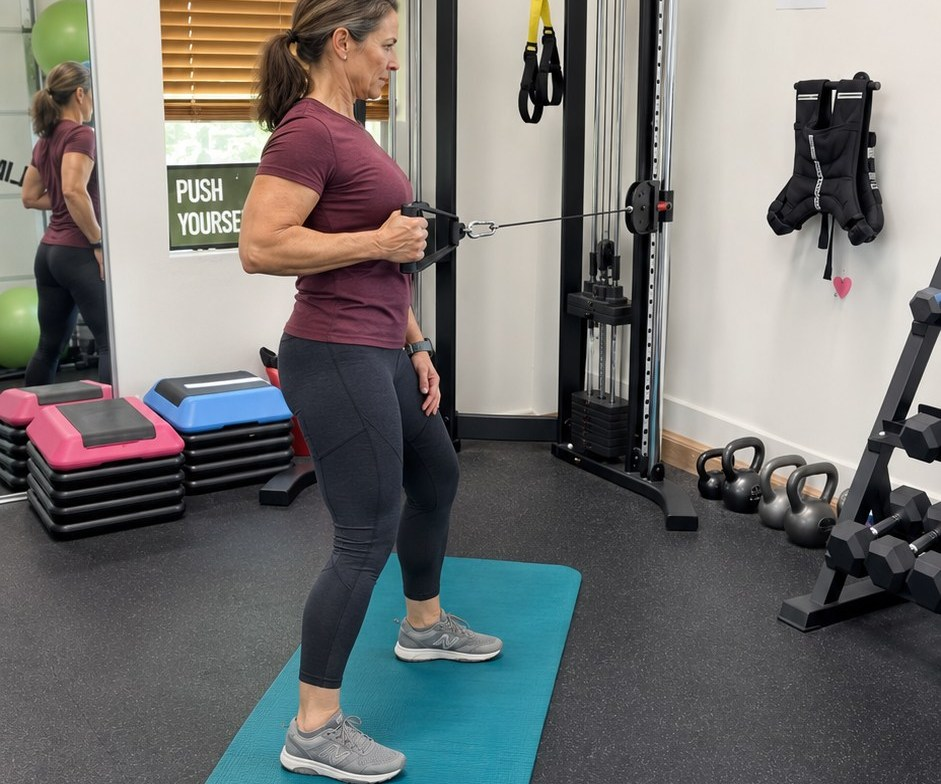
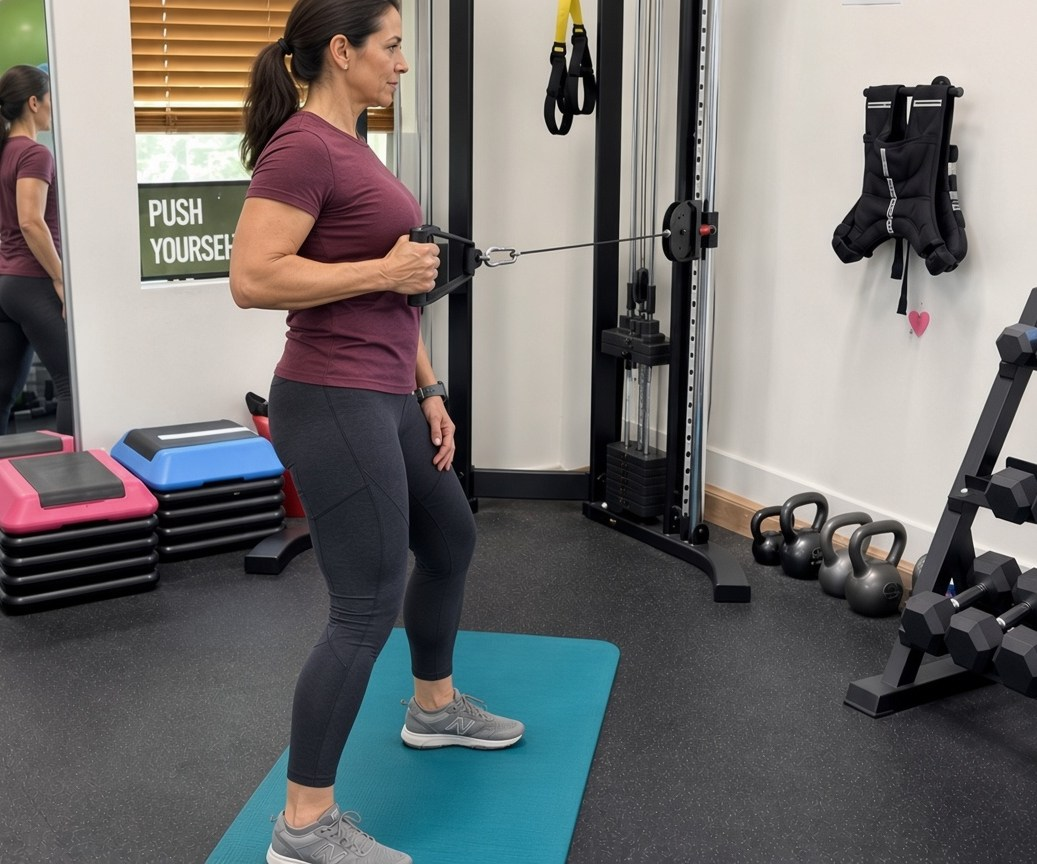
Give the Train with Me photos distinct looks and save the nutrition page for later.

diff --git a/wix-saved/nutrition-and-hormonal-health.html b/wix-saved/nutrition-and-hormonal-health.html
@@ -1,0 +1,136 @@
+<!DOCTYPE html>
+<html lang="en">
+<head>
+  <meta charset="UTF-8">
+  <meta name="viewport" content="width=device-width, initial-scale=1">
+  <title>Saved Wix page: Nutrition and hormonal health</title>
+  <style>
+    body { margin: 0; background: #f7f4ef; color: #1f1f1f; font: 17px/1.55 Georgia, serif; }
+    .banner, main { max-width: 760px; margin: 0 auto; padding: 24px 20px; }
+    .banner { background: #fff7e8; border-bottom: 1px solid #e4d7c3; font-family: "Segoe UI", sans-serif; font-size: 15px; }
+    h1, h2, h3 { font-family: "Segoe UI", sans-serif; line-height: 1.2; }
+    h1 { font-size: 32px; }
+    h2 { margin-top: 36px; font-size: 24px; }
+    .cards, .prices { display: grid; gap: 16px; }
+    article, blockquote { background: #fff; padding: 16px 18px; }
+    blockquote { margin: 0; }
+    footer { font-style: italic; }
+    a { color: #8d1848; }
+    .note { font-family: "Segoe UI", sans-serif; font-size: 14px; color: #5c564e; }
+  </style>
+</head>
+<body>
+  <div class="banner">
+    <p><strong>Saved copy of the Wix page.</strong> This is not part of Version 3 and is not in the site menu. Source: <a href="https://www.thrivewomenfitness.com/nutritionandhormonalhealth">thrivewomenfitness.com/nutritionandhormonalhealth</a></p>
+    <p class="note">Edit the wording in this file. When you are ready, ask to add it to Version 3.</p>
+  </div>
+
+  <main>
+    <h1>Fitness &amp; nutiriton to optimize hormonal health &amp; longevity</h1>
+
+    <div class="cards">
+      <article>
+        <h2>Become Unbreakable</h2>
+        <p>Studies show, heavy resistance training twice a week saw significant improvements in spinal bone density and reduced fall risk. And, it doesn't just slow the decline—it can actually build bone. Heavy lifting also reduces every major health risk from heart disease to cancer.</p>
+      </article>
+      <article>
+        <h2>Look Better Naked</h2>
+        <p>When hormones shift, women need to shift their workout emphasis as well. Doing what you used to do simply doesn't work. But the right exercise routine will reshape your body. Stop wasting hours on workouts that don't build lean muscle and shed body fat. I'll teach you how to optimize your results so you look good naked and in your clothes.</p>
+      </article>
+      <article>
+        <h2>Regain Your Spark</h2>
+        <p>Low energy and mood are 2 common symptoms for women 35+. The good news: lifting heavier weights &amp; doing high intensity power-based workouts improves your brain function so you have reduced brain fog, improved memory, ability to concentrate, reduced anxiety, irritability &amp; depression. Ultimate Result = get your mojo back and energy up!</p>
+      </article>
+    </div>
+
+    <h2>Hi! I'm Shannon</h2>
+    <p>Hi! I'm Shannon, your perimenopause/post-menopausal Master Personal Trainer. For over 30 years, I've trained thousands of women just like you -- struggling with unwanted weight gain, fatigue, demotivation and loss of self-confidence that often starts in midlife and continues throughout the decades. And at age 52, I've personally experienced it. Women are told "that's just the way it is now", and lose hope. Wrong!</p>
+    <h2>THERE'S NO AGE LIMIT ON THRIVING</h2>
+    <p>I guarantee you CAN improve body composition, lose fat, build bone density, gain lean muscle, and feel more like you again!</p>
+    <p>As a 3x Ironman World Championship finisher, I know it takes more than just a cookie cutter exercise program to get results. THRIVE fitness clients learn a wholistic way of training, eating, and thinking to enhance your hormonal health.</p>
+    <p><a href="mailto:thrivewomenfitness@gmail.com?subject=Dr%20Geri%20Referral%20-%20Request%20for%20Free%20Chat">I want to schedule a free chat!</a></p>
+    <p><a href="#packages">Skip to the THRIVE Packages</a></p>
+
+    <h2>The Facts ...</h2>
+    <h2>The Good News...</h2>
+    <div class="cards">
+      <article>
+        <h3>HEAVY WEIGHTS</h3>
+        <p>If you want real results, it's time to lift heavy. That means weights so challenging you can only manage 4–8 reps. This builds lean muscle, burns belly fat, and reshapes your body. Think beef jerky muscles (strong + dense) vs. cotton candy fat (fluffy + puffy).</p>
+      </article>
+      <article>
+        <h3>POWER BASED CARDIO</h3>
+        <p>Short, explosive bursts have big fat-burning payoff.</p>
+        <p>We're talking 10–30 seconds of all-out efforts, 4–8 rounds.</p>
+        <p>Sessions are quick. 20 to 30 minutes max. Delivers serious results. Bonus: women who train with power lose more belly and deep visceral fat. Yes, really.</p>
+      </article>
+      <article>
+        <h3>EAT MORE PROTEIN</h3>
+        <p>Most women eat half the protein they actually need. That's a problem. Without enough protein, muscle quality drops, and fat creeps up. Sound impossible to fix? Not with our THRIVE protein strategies.</p>
+        <p>Change your mindset, change your meals — and you'll never go back.</p>
+      </article>
+    </div>
+
+    <h2>Happy Clients</h2>
+    <div class="cards">
+      <blockquote>
+        <p>"Shannon has truly changed my life. I started working with her about a year ago after attending one of her women's fitness presentations. I thought how much difference could a 30 minute session, twice a week make? I have lost 10 lbs, my strength and balance is better than ever for my age, and my spirit and self confidence has improved. Life is good. Thank you Shannon. 💪🏻 Girl Power"</p>
+        <footer>-- Brenda (age 60)</footer>
+      </blockquote>
+      <blockquote>
+        <p>"I started going to Shannon with a small group of friends last year. As soon as I saw results (which was pretty quickly) I added a solo day. It's hard work, but so rewarding. My 70 year old body now has some really nice muscles… when I wave, my arms don't jiggle anymore. I love wearing sleeveless tops! Shannon herself is amazing; so strong, so knowledgeable. Most importantly, she is always aware of a person's limitations and goals. If anyone can make weight training fun, it would be her. She makes you STRONG."</p>
+        <footer>- Kristina A (age 70)</footer>
+      </blockquote>
+    </div>
+
+    <h2>Want to hear more about my THRIVE Training? Check out my podcasts!</h2>
+    <p><a href="https://www.thrivewomenfitness.com/podcasts">PODCASTS</a></p>
+
+    <h2 id="packages">PERSONAL TRAINING SPECIAL Just for You!</h2>
+    <p>Special intro offer all first-time clients from Geri Jones:</p>
+    <p>3 x 30 min sessions for $139</p>
+    <p>All workouts will be on Zoom.</p>
+    <p>Sessions can be recorded &amp; sent to you post workout.</p>
+    <p>Scroll Down for Monthly Packages</p>
+    <p>Want to learn more?</p>
+    <p><a href="mailto:thrivewomenfitness@gmail.com?subject=Dr%20Geri%20Referral%20-%20Request%20for%20Free%20Chat">I want to schedule a free chat!</a></p>
+
+    <h2>MONTHLY PACKAGES</h2>
+    <p>8 x 30 min LIVE Zoom training</p>
+    <div class="prices">
+      <article>
+        <h3>GROUPIES</h3>
+        <p>3 -4 people</p>
+        <p>$35 ea</p>
+      </article>
+      <article>
+        <h3>DYNAMIC DUO</h3>
+        <p>2 people</p>
+        <p>$45 ea</p>
+      </article>
+      <article>
+        <h3>SOLO-RIFIC</h3>
+        <p>Individual</p>
+        <p>$55 ea</p>
+      </article>
+    </div>
+    <p>All packages expire 30 days upon purchase. Unused sessions will not roll over.</p>
+    <p><a href="mailto:thrivewomenfitness@gmail.com?subject=Dr%20Geri%20Referral%20-%20Request%20for%20Free%20Chat">I want to schedule a free chat!</a></p>
+
+    <h2>A la Carte Menu</h2>
+    <div class="cards">
+      <article>
+        <h3>Fitness Consultation &amp; Workout Plan = $149</h3>
+        <p>60 min</p>
+        <p>If you're not ready to commit to a monthly training package but want to improve your fitness/body comp goals, this is a great option. I will design a workout plan to optimize your time and results. You will learn how to achieve better results by implementing the THRIVE Women Fitness principles for Strength Training, Cardio Workouts, Mobility, and Balance. This is not a cookie cutter plan - strategies will be tailored to your lifestyle.</p>
+      </article>
+      <article>
+        <h3>Nutrition Coaching = $149</h3>
+        <p>You learn the NEW menopause nutrition fundamentals to help reduce body fat, increase muscle, reduce risk of disease &amp; injury, and amplify your energy. I do not created food plans.</p>
+        <p>This is a discussion of how to rework your eating plan based on the most recent scientific research on hormonally shifted women.</p>
+      </article>
+    </div>
+    <p><a href="mailto:thrivewomenfitness@gmail.com?subject=Dr%20Geri%20Referral%20-%20I%20want%20to%20schedule%20a%20free%20chat!">I want to schedule a free chat!</a></p>
+  </main>
+</body>
+</html>

diff --git a/index.html b/index.html
@@ -184,7 +184,7 @@
         </article>
         <article class="offer">
           <figure class="offer-media zoom">
-            <img src="images/train/zoom.png" alt="A woman training at home on a video call">
+            <img src="images/train/zoom.jpg" alt="A woman training at home on a video call">
           </figure>
           <svg class="icon" viewBox="0 0 24 24" aria-hidden="true"><rect x="3" y="4" width="18" height="12" rx="1.5" fill="none" stroke="currentColor" stroke-width="1.7"/><path d="M8 20h8M12 16v4" fill="none" stroke="currentColor" stroke-width="1.7" stroke-linecap="round"/></svg>
           <h3>Zoom personal training</h3>

diff --git a/podcasts.html b/podcasts.html
@@ -35,7 +35,7 @@
 
   <main id="main" class="wrap">
     <section class="section">
-      <h1>Podcast</h1>
+      <h1>Podcasts</h1>
       <p class="lead">Honored to be a guest speaker on these inspirational and educational podcasts for women by women. I talk to industry leaders about health, fitness, mindset, and achieving your best self!</p>
     </section>
     <section class="podcasts">

diff --git a/vite.config.js b/vite.config.js
@@ -10,6 +10,7 @@ const skip = new Set([
   'package-lock.json',
   'vite.config.js',
   'vite.entry.js',
+  'wix-saved',
 ])
 
 export default defineConfig({
